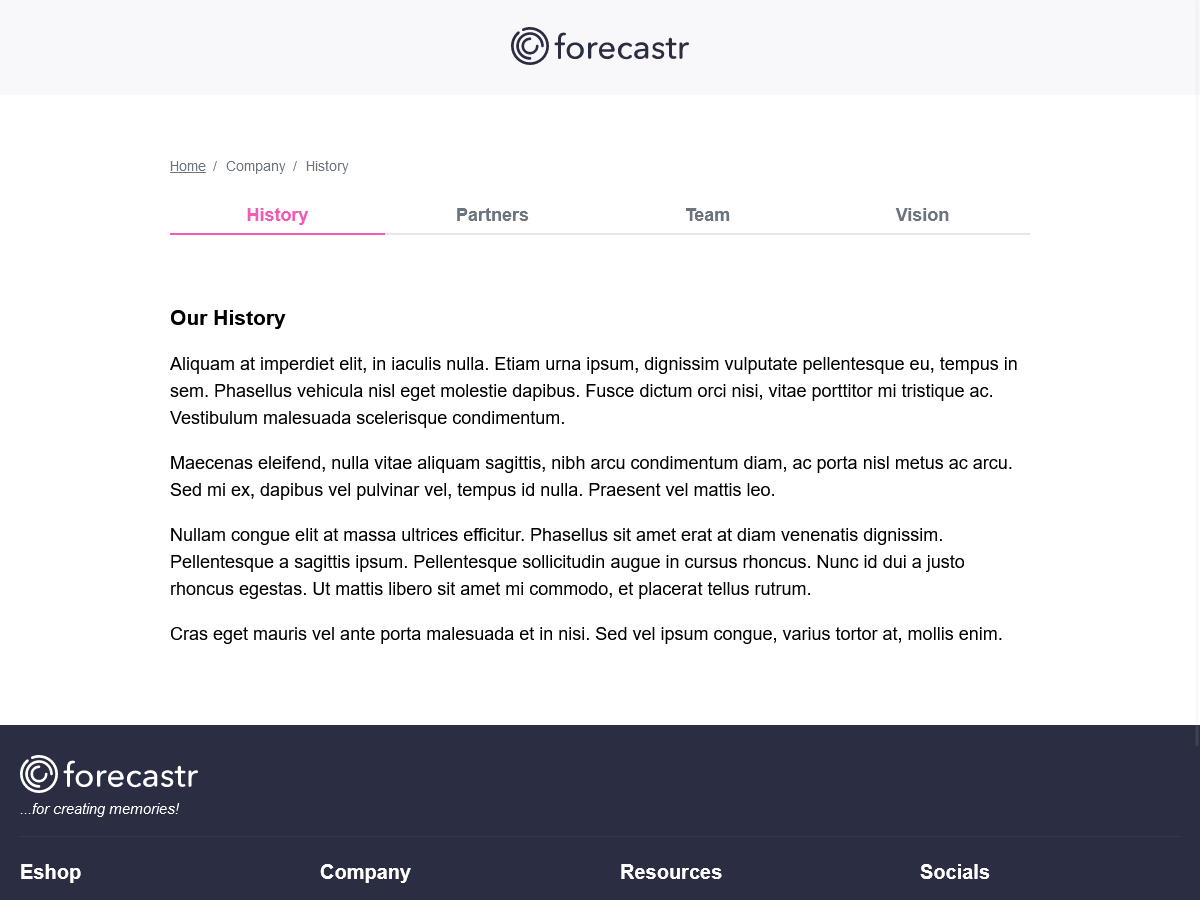
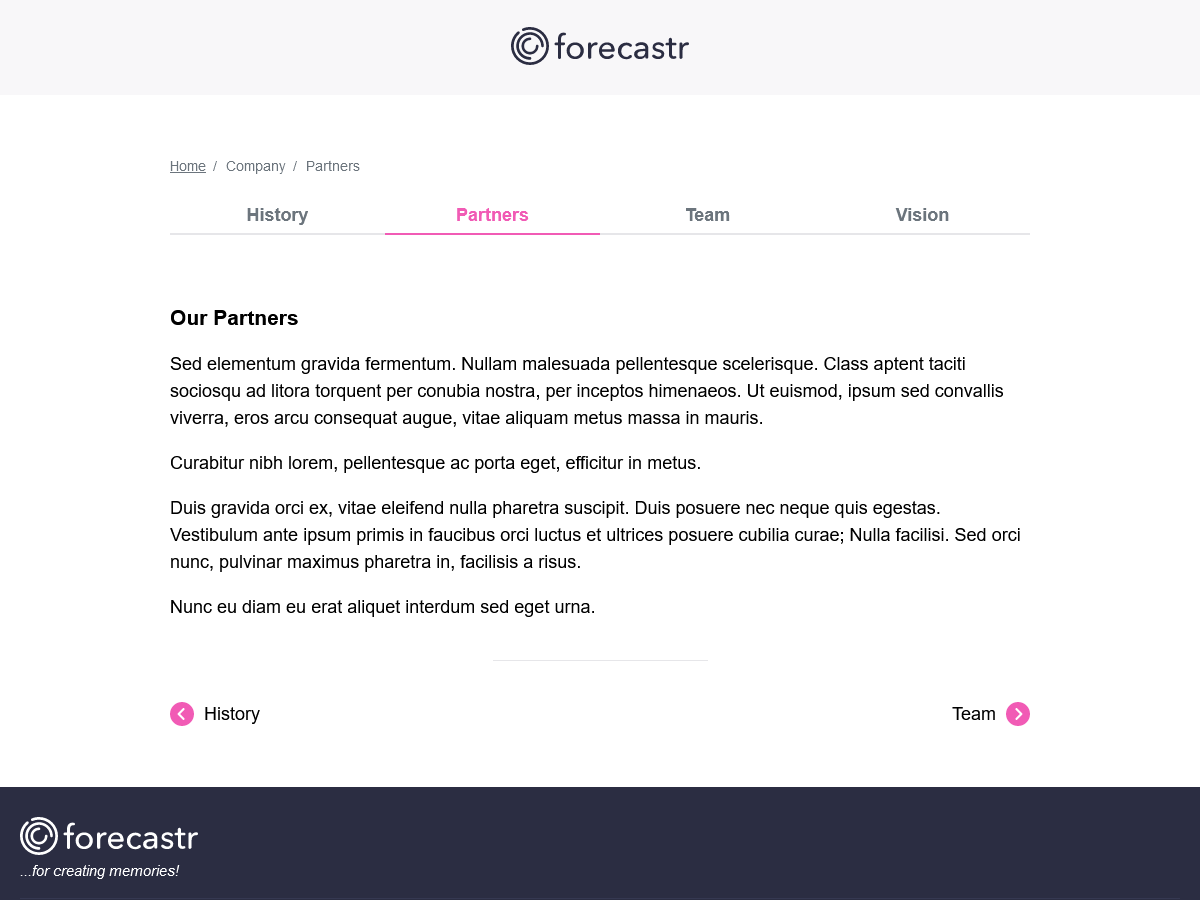
initial commit

diff --git a/style.css b/style.css
@@ -50,6 +50,19 @@ button {
 	max-width: 900px;
 }
 
+.screen-reader-text {
+	border: 0;
+	clip: rect(1px, 1px, 1px, 1px);
+	clip-path: inset(50%);
+	height: 1px;
+	margin: -1px;
+	overflow: hidden;
+	padding: 0;
+	position: absolute;
+	width: 1px;
+	word-wrap: normal !important;
+}
+
 /* MAIN STYLES
   –––––––––––––––––––––––––––––––––––––––––––––––––– */
 .site-wrapper {
@@ -269,6 +282,38 @@ button {
 .section-with-content {
 	text-align: left;
 	margin-top: 60px;
+}
+
+.section-tabs-navigation .navigation {
+	position: relative;
+	display: flex;
+	padding-top: 40px;
+	margin-top: 40px;
+}
+
+.section-tabs-navigation .navigation::before {
+	content: "";
+	position: absolute;
+	top: 0;
+	left: 50%;
+	transform: translateX(-50%);
+	width: 25%;
+	border-top: 1px solid var(--lightgray);
+}
+
+.section-tabs-navigation a {
+	display: flex;
+	align-items: center;
+	gap: 10px;
+	text-decoration: none;
+}
+
+.section-tabs-navigation .next {
+	margin-left: auto;
+}
+
+.section-tabs-navigation svg {
+	fill: var(--darkpink);
 }
 
 @media (max-width: 650px) {

diff --git a/partials/sprites.php b/partials/sprites.php
@@ -27,4 +27,9 @@
 	<symbol id="button" viewBox="0 0 256.6 60.02" preserveAspectRatio="none">
 		<path d="M3.98 0c9.31-.01 18.44.99 27.76 1 10.44.01 20.89 0 31.33 0 7.99 0 16.09-.41 24.06.22 10.76.85 21.39.78 32.2.78 4.39 0 8.82.21 13.2.05 4.46-.16 8.62-1.07 13.12-1.05 19.4.1 38.81 0 58.21 0 4.58 0 9.16.02 13.74-.01 5.99-.04 11.84.86 17.8 1.06 6.92.24 14.3.49 21.2-.12-.87.98-1.21 2.86-1.65 4.09-.31.89-.81 2-1.02 2.93-.78 3.31.16 7.86.07 11.25-.1 3.99-1.02 7.75-1.02 11.8v11.02c0 3.58.19 7.22.02 10.8-.13 2.66-.6 2.22-3.15 2.18-4.54-.08-9.09 0-13.63 0-5.38 0-10.75-.02-16.13.02-5.74.05-11.37-.86-17.09-1.07-6.42-.24-12.91.09-19.34.06-4.9-.03-9.57.9-14.44 1.05-2.54.08-5.26-.44-7.78.03-1.32.24-2.48.79-3.82.94-3.63.41-7.47.87-11.13 1.02-4.97.2-9.47-.21-14.38.73-6.11 1.17-13 .22-19.24.22-8.9 0-17.92-.4-26.81-.05-5.32.21-10.52 1.12-15.85 1.07-9.41-.07-18.81-.02-28.2-.02H12.98c-1.5 0-3-.02-4.5 0-1.59.02-2.54-.51-3.72-.78-.89-.2-4.02.24-4.65-.38-.48-.47.81-5.66.87-6.65.17-2.71 1.06-5.14 1.02-7.92-.04-3.34 0-6.68-.02-10.02-.02-4.3.96-7.94 1-12.27.03-4.3-1.41-8.11-2.05-12.2C.61 7.77.02.47 2.71.18c.77 1.2 2.03.84 3.27.82"/>
 	</symbol>
+	<symbol id="circle-chevron-left" xmlns="http://www.w3.org/2000/svg" viewBox="0 0 512 512">
+		<path d="M512 256A256 256 0 1 0 0 256a256 256 0 1 0 512 0zM271 135c9.4-9.4 24.6-9.4 33.9 0s9.4 24.6 0 33.9l-87 87 87 87c9.4 9.4 9.4 24.6 0 33.9s-24.6 9.4-33.9 0L167 273c-9.4-9.4-9.4-24.6 0-33.9L271 135z"/></symbol>
+	<symbol id="circle-chevron-right" xmlns="http://www.w3.org/2000/svg" viewBox="0 0 512 512">
+		<path d="M0 256a256 256 0 1 0 512 0A256 256 0 1 0 0 256zM241 377c-9.4 9.4-24.6 9.4-33.9 0s-9.4-24.6 0-33.9l87-87-87-87c-9.4-9.4-9.4-24.6 0-33.9s24.6-9.4 33.9 0L345 239c9.4 9.4 9.4 24.6 0 33.9L241 377z"/>
+	</symbol>
 </svg>

diff --git a/partials/tabs-navigation.php b/partials/tabs-navigation.php
@@ -1,0 +1,40 @@
+<?php
+$child_pages      = $args['child_pages'];
+$current_page_key = array_search( get_the_ID(), array_column( $child_pages, 'ID' ) );
+$prev_page        = $child_pages[ $current_page_key - 1 ];
+$next_page        = $child_pages[ $current_page_key + 1 ];
+?>
+
+<section class="section-tabs-navigation">
+	<div class="container container-sm">
+		<div class="navigation">
+			<h2 class="screen-reader-text">
+				<?php esc_html_e( 'Company Pages Pagination', 'playground' ); ?>
+			</h2>
+			<?php if ( $prev_page ) : ?>
+				<a class="previous" href="<?php echo esc_url( get_permalink( $prev_page ) ); ?>">
+					<svg width="24" height="24" aria-hidden="true">
+						<use xlink:href="#circle-chevron-left"></use>
+					</svg>
+					<?php
+					//esc_html_e( 'Previous', 'playground' );
+					echo esc_html( get_the_title( $prev_page ) );
+					?>
+				</a>
+				<?php
+			endif;
+			if ( $next_page ) :
+				?>
+				<a class="next" href="<?php echo esc_url( get_permalink( $next_page ) ); ?>">
+					<?php
+					//esc_html_e( 'Next', 'playground' );
+					echo esc_html( get_the_title( $next_page ) );
+					?>
+					<svg width="24" height="24" aria-hidden="true">
+						<use xlink:href="#circle-chevron-right"></use>
+					</svg>
+				</a>
+			<?php endif; ?>
+		</div>
+	</div>
+</section>

diff --git a/page-templates/tabs.php b/page-templates/tabs.php
@@ -65,6 +65,12 @@ $child_pages  = get_pages(
 						<?php the_content(); ?>
 					</div>
 				</section>
+
+
+				<?php
+				/*NAVIGATION*/
+				get_template_part( 'partials/tabs-navigation', null, array( 'child_pages' => $child_pages ) );
+				?>
 			</article>
 			<?php
 		endwhile;

diff --git a/README.md b/README.md
@@ -1,5 +1,5 @@
-### Make a Tabbed Navigation With Child Pages in WordPress
+### How to Browse Child Pages Through Next/Previous Links in WordPress
 
-In this tutorial, we'll learn how to convert WordPress child pages into shareable navigation tabs. However, unlike common tabs where visitors remain on the same page upon clicking them and just the associated panel appears, ours will behave like menu links and force the page to reload.
+In a recent tutorial, we covered a method to convert WordPress child pages into navigation tabs. Today, we'll move a step further and learn how to navigate between these pages with the next and previous links.
 
 **Available on Tuts+ Autumn 2023**
